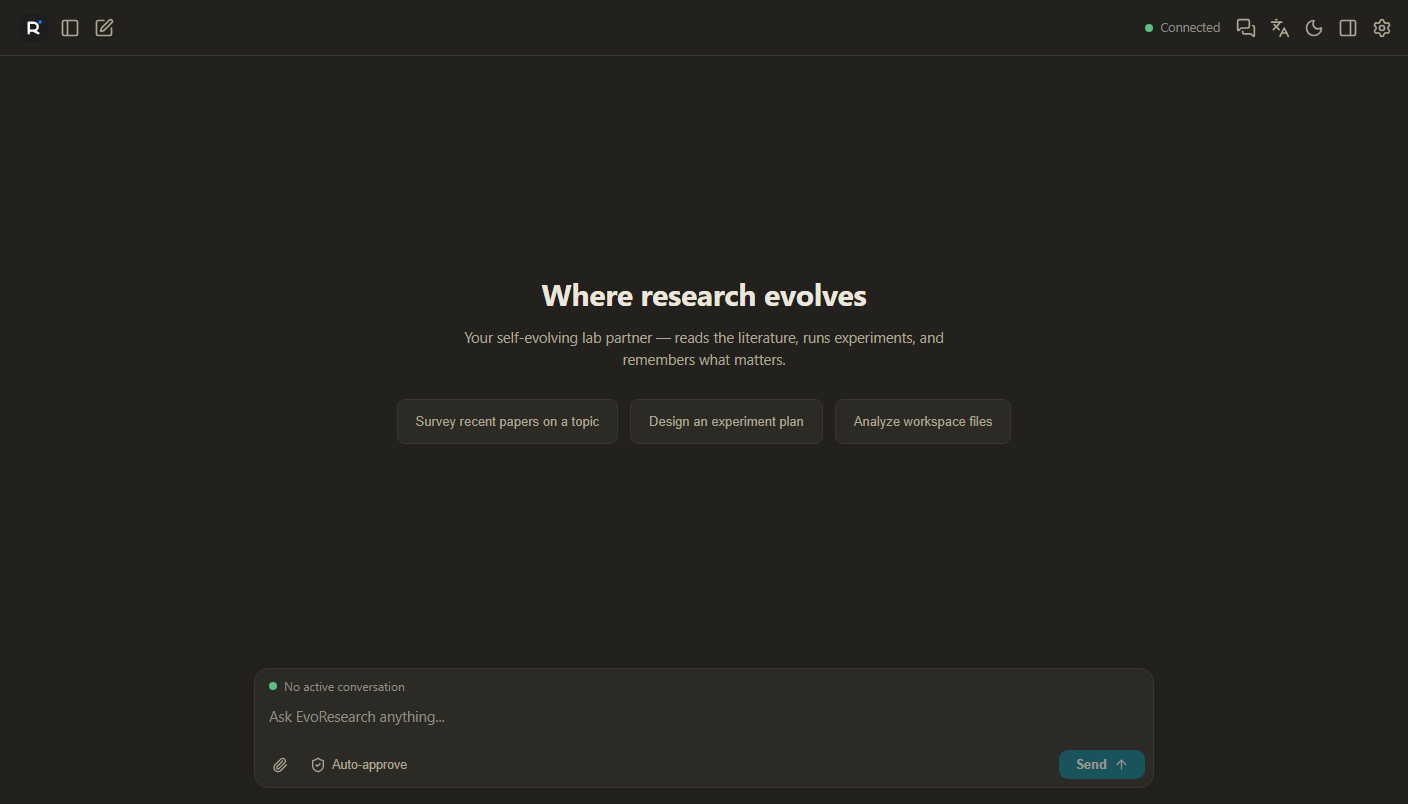
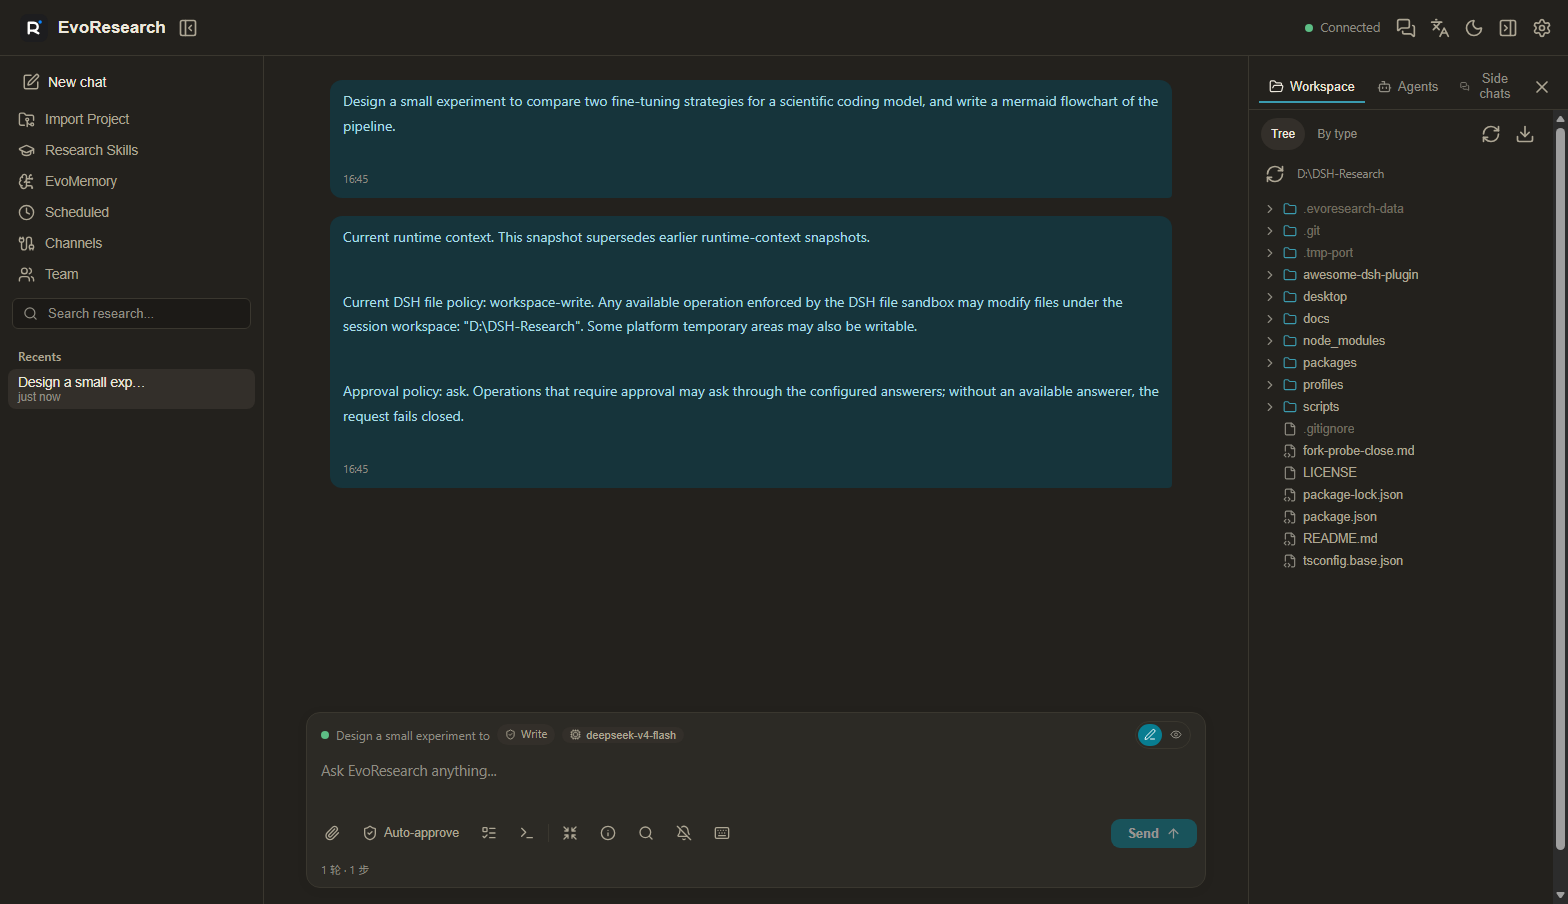
docs: 重写 README（热门项目风格）+ 更新产品截图
- hero 主图与 Markdown 能力图重新截取（当前界面）
- README 精简：删除界面介绍与实现细节（§ 引用/官方 API 说明/内部架构图），
  聚焦产品能力与快速开始
- 清理不再引用的旧截图（仅保留 hero-dark.png / markdown-cap.png）

diff --git a/README.md b/README.md
@@ -2,284 +2,102 @@
 
 # 🔬 EvoResearch
 
-**面向科研的自主智能体 —— 基于 deepseek-harness（DSH）0.1.0-rc.6 构建**
+**面向科研的自主智能体工作台**
 
-用 TypeScript / Node.js 实现的科研智能体能力套件：**自进化科研记忆、项目工作区、
-多智能体团队、定时任务、多通道接入、自定义工作台界面与 Windows 桌面版**。
+一个开箱即用的本地 AI 科研助手：长期记忆、项目工作区、多智能体团队、技能蒸馏与定时任务，
+Windows 桌面版一键安装，网页版即启即用。
 
 [![Release](https://img.shields.io/github/v/release/Karbo123/DSH-EvoResearch?color=2f6bff&label=Release)](https://github.com/Karbo123/DSH-EvoResearch/releases)
 [![Awesome DSH Plugin](https://awesome-dsh-plugin.com/badge.svg)](https://awesome-dsh-plugin.com)
 [![TypeScript](https://img.shields.io/badge/TypeScript-5.8-blue)](https://www.typescriptlang.org/)
 [![Node.js](https://img.shields.io/badge/Node.js-24%2B-green)](https://nodejs.org/)
-[![DSH](https://img.shields.io/badge/deepseek--harness-0.1.0--rc.6-1f3a93)](https://github.com/deepseek-ai/deepseek-harness)
-[![Tauri](https://img.shields.io/badge/Desktop-Tauri%202-6a5acd)](https://tauri.app/)
 [![Windows](https://img.shields.io/badge/Platform-Windows-0078d6)]()
 [![License](https://img.shields.io/badge/License-MIT-yellow)](LICENSE)
 
-**安装包仅 ~45 MB**（WebView2 复用系统组件）· 零 Python · 不依赖 deepagents
+**安装包仅 ~45 MB** · 零 Python · 数据完全本地
 
-![EvoResearch 聊天界面](docs/screenshots/chat-dark.png)
+![EvoResearch 工作台](docs/screenshots/hero-dark.png)
 
 </div>
 
----
+## ✨ 特性
 
-## 🖼 界面一览
-
-EvoResearch 自带**完全自有的工作台界面**（自建浏览器表面，不加载官方 DSH 外壳）：
-暖色"纸面"设计、青色品牌色，浅/深双主题，三栏可拖拽布局 —— 对话、会话历史、右侧
-工作区检查器一屏尽览。
-
-| 深色主题 · 三栏工作台 | 浅色主题 · 欢迎页 | 深色主题 · Markdown 渲染 | 深色主题 · Mermaid 流程图 |
-|---|---|---|---|
-| ![三栏工作台](docs/screenshots/workspace-dark.png) | ![浅色欢迎页](docs/screenshots/hero-light.png) | ![消息 Markdown 渲染](docs/screenshots/markdown-chat-dark.png) | ![Mermaid 流程图](docs/screenshots/mermaid-dark.png) |
-
-> 输入面板的状态条与底部统计条（轮·步 / LLM 耗时 / tok/s / 上下文用量 / 权限模式）已在截图中体现。
-
-## ✨ 特性一览
-
-| | 特性 | 说明 |
-|---|---|---|
-| 🧠 | **科研记忆** | 每轮对话自动进入 Turn Catalog，七类多标签分类（idea/method/experiment/related_work/reproduction/project/general），FTS5 + RRF 混合检索，每轮注入 ≤6000 token 记忆包 |
-| 🎯 | **Goal Contract 长程目标控制** | 长期任务自动生成目标合同，四轴保守判定（目标/范围/证据/完成），证据链可审计推进 |
-| 📂 | **科研项目工作区** | `projects/<name>/.evoresearch-data/` 数据随项目目录隔离，项目即 git 仓库，支持导入与 AI 自动命名创建 |
-| 🤖 | **多智能体团队** | 6 个科研角色预设（规划/调研/编码/调试/数据分析/写作），`/expert invite` 一键邀请 |
-| 🛠 | **AutoSkills 技能蒸馏** | 从记忆观测自动聚类生成可复用技能提案，审核通过后写入技能目录 |
-| ⏰ | **定时任务** | 自研 cron 解析（Vixie 语义），结果直达结果线程，支持「Report to main chat」 |
-| 🌐 | **多通道接入** | Telegram 可用；Slack / QQ / 微信 / 飞书 / Signal 适配器框架就绪 |
-| 👁 | **视觉检查工具** | `vision_check` 工具 + 截图脚本，让模型能"看见"界面并自检（OpenAI 兼容视觉模型） |
-| 💬 | **斜杠命令** | `/project` `/memory` `/schedule` `/channel` `/expert` `/autoskills` |
-| 🖥 | **自定义工作台界面** | 自建浏览器表面（不加载官方 ui-\* 外壳）：顶栏 + 会话历史 + 真实多轮对话 + 输入面板 + 右侧检查器，浅/深双主题，中英双语 |
-| ✍ | **Markdown 渲染** | 消息与输入框 Write/Preview 双模式：GFM 表格、任务列表、KaTeX 数学公式（字体内联）、highlight.js 科研语言子集高亮、**Mermaid 流程图**（回答结束后惰性加载绘制，独立 chunk 不拖慢首屏）、DOMPurify 白名单净化 |
-| 💭 | **Thinking 折叠** | 助手消息的推理内容默认折叠为小号 Thinking 行（§31.6），点击展开（左侧 2px 边线 + 次级文字），正文与推理分离展示 |
-| 📜 | **历史分页与滚动** | 默认只渲染最近 100 条，Load earlier 向前翻页且滚动锚定不跳动；仅在位于底部时自动跟随新消息，上滚时右下角出现「回到最新」并释放旧页；忙时消息进入队列 |
-| ⌨ | **输入辅助** | 斜杠命令候选框（目录动态读取 dsh-commands 注册表 + 平台命令镜像，Tab/方向键/Esc 导航）；**命令直接执行**：单行 `/命令` 回车即执行（新端点 commands-execute，host 命令处理器直跑不经过模型），结果以等宽文本条显示在输入框上方（错误红框、可关闭），未知命令自动降级为普通聊天；`@文件` 补全（workspace 递归树、基名优先排序、发送时小型文本自动注入内容）、每 workspace 输入历史（最近 200 条，空输入上下键浏览、前缀建议） |
-| 🎛 | **会话动作** | 输入面板动作条：Compact（二次确认 → `/compact` 摘要投影）、Current 弹窗（Thread/workspace/模型/权限/token·context/专家/事件数/会话文件路径与大小 + Clear view 仅清展示不删数据）、Search（先搜当前视图、Full history 走全历史搜索、点击跳转高亮）、Notify（浏览器通知开关）、Shortcuts（键盘规则表） |
-| 🧵 | **会话管理与 Side Chat** | Recents 行悬停操作：重命名（官方 session.rename）、导出 JSON/Markdown（§41.8 格式）、从该会话派生 Side Chat（官方 session.fork，需已完成轮次，失败透出原因）；侧聊不混入普通 Recents；Inspector Side chats 页：Blank 空白侧聊（仅继承 workspace）/Inherit 继承侧聊 + tab 列表 + 打开；忙时队列弹层：编辑/删除/清空（官方 session.updateQueue） |
-| 🤖 | **模型选择器** | 状态条模型名本身是按钮（§25.2）：点击弹出 provider 分组目录（llm 注册表动态读取 + 各 adapter listModels），选择即保存默认模型并即时生效 |
-| 🛡 | **HITL 工具审批** | 待审批工具调用显示为卡片（工具名/调用 ID/审批理由），Approve 放行（实测沙箱升级并写入文件）/ Reject 拒绝（实测不执行）；审批期间发送按钮禁用（§21.2） |
-| 🧰 | **工具卡片** | 同一步骤的工具调用分组展示（默认折叠已完成的组，运行中自动展开 + spinner）；每张卡片：名称、状态（running/success/error 三色）、参数（点击展开）、结果（真实工具输出，截断可展开，§21.1） |
-| ⚙ | **Dynamic Workflow** | 输入区上方阶段条：工作流名称 + 子任务标签（running/done/failed 状态色）+ 完成数（n/m）+ 实时耗时 + 结束原因；右侧 X 二次确认清除（仅移除浏览器记录，§24） |
-| ⏳ | **后台任务** | 输入面板后台任务按钮（运行中计数徽标）→ 弹层列出会话后台作业：类型/名称/详情/状态（running·stopping·completed·killed·failed 状态点）/实时耗时（官方 jobsBySession 快照，§21.6） |
-| 📊 | **会话状态条与统计** | 输入面板实时徽章（排队消息 / 进行中目标 / 权限模式 Read-only·Write·Full effect / 当前模型 / 上下文用量%）+ 底部统计条（轮·步 \| LLM 耗时 · 工具耗时 \| 首 token 平均 · tok/s \| 缓存命中 \| 输入·输出 tokens） |
-| 🧩 | **业务面板** | EvoMemory（项目/七类统计/目标）、Scheduled（任务列表/添加/删除）、Research Skills（AutoSkills 提案审核：Approve/Reject/Run）、Channels（消息通道启停）与 Team（科研角色邀请/清空）、Workspace（项目导入）面板，经工作台侧栏菜单直达 |
-| 🗂 | **工作区文件浏览器** | Inspector 内目录树（懒加载）+ 文本编辑（Ctrl+S 原子保存）+ 图片/PDF/HTML 内联预览 |
-| 🤖 | **Agent 检查器** | Inspector 的 Agents 页实时列出当前会话的子代理树（深度缩进 / 运行态 / one-shot·continuable 模式徽标），消息气泡支持一键复制 |
-| 🪟 | **Windows 桌面版** | Tauri 2 + Node sidecar，无边框自绘标题栏（原生拖拽 + 窗口控制），NSIS 安装包 **~45 MB**（实测），含全部后端 |
+- 🧠 **科研记忆** —— 每轮对话自动沉淀为结构化记忆，七类分类 + 混合检索，模型调用前自动注入相关记忆包
+- 🎯 **长程目标** —— 复杂任务自动拆解为目标合同，按证据推进、可审计、可恢复
+- 📂 **项目工作区** —— 每个项目独立目录、独立 git 仓库，数据随项目迁移；一键导入既有目录
+- 🤖 **多智能体团队** —— 规划 / 调研 / 编码 / 调试 / 数据分析 / 写作 六位科研角色，可邀请进对话协作
+- 🛠 **技能蒸馏** —— 从对话与记忆中自动提炼可复用技能，审核通过后即成为团队能力
+- ⏰ **定时任务** —— 类 cron 调度，结果自动回报到对话
+- 🌐 **多通道接入** —— Telegram 开箱即用，Slack / QQ / 微信 / 飞书 / Signal 适配器框架就绪
+- ✍ **富文本对话** —— GFM 表格、任务列表、KaTeX 数学公式、代码高亮、Mermaid 流程图，输入框支持实时预览
+- 💬 **斜杠命令** —— `/project` `/memory` `/schedule` `/channel` `/expert` `/autoskills` …，回车即执行
+- 🔍 **会话工具** —— 全文搜索、JSON / Markdown 导出、重命名、侧边对话、忙时队列编辑
+- 🛡 **安全审批** —— 工具调用需人工批准时逐项展示（工具名 / 理由），Approve 或 Reject 一键决定
+- 🪟 **Windows 桌面版** —— 无边框原生窗口，后端随开随关，无需手动配置
 
 ## 🚀 快速开始
 
-### 环境要求
-
-- **Windows 10/11**（当前仅支持 Windows）
-- **Node.js ≥ 24**（需要内置 `node:sqlite` 与 zstd；推荐 24 LTS 或 26）
-- **npm ≥ 10**
-
-### 方式一：Windows 桌面版（开箱即用）
+### Windows 桌面版（推荐）
 
 从 [GitHub Releases](https://github.com/Karbo123/DSH-EvoResearch/releases) 下载
-`EvoResearch_0.1.0_x64-setup.exe`（**~45 MB**），双击安装：
-窗口内是完整工作台界面，后端（Node sidecar）自动启动、随窗口退出自动清理，无需手动配置。
+`EvoResearch_0.1.0_x64-setup.exe`，双击安装即可使用。
 
-### 方式二：网页版（构建后运行）
+### 网页版
 
 ```bash
-# 1. 克隆仓库
 git clone https://github.com/Karbo123/DSH-EvoResearch.git
 cd DSH-EvoResearch
-
-# 2. 构建（插件 + 自定义表面）
 npm install
 npm run build
-npm run verify        # 可选：70 个单元测试 + bundle/docs 校验
-
-# 3. 用示例 profile 启动（独立端口，避免与现有 DSH 冲突）
 npx @deepseek-ai/dsh --profile profiles/evoresearch --port 3081
-# 浏览器打开 http://127.0.0.1:3081
+# 打开 http://127.0.0.1:3081
 ```
 
-### 方式三：作为 DSH profile bundle 挂载
+### 作为 DSH profile 挂载
 
-在任意 DSH 部署中把本仓库 `profiles/evoresearch/` 作为 profile：
-
-```jsonc
-// <你的 DSH profile 目录>/package.json
-{
-  "name": "dsh-profile-evoresearch",
-  "private": true,
-  "dependencies": {
-    "@deepseek-ai/dsh-base": "^0.1.0-rc.6",
-    "@evoresearch/dsh-app": "file:path/to/DSH-EvoResearch/packages/evoresearch-app",
-    "@evoresearch/dsh-plugin": "file:path/to/DSH-EvoResearch/packages/evoresearch-plugin"
-  },
-  "dsh": {
-    "profile": {
-      "bundles": [
-        "@deepseek-ai/dsh-base",
-        "@evoresearch/dsh-app",
-        "@evoresearch/dsh-plugin"
-      ]
-    }
-  }
-}
-```
-
-> `@evoresearch/dsh-app` 是自定义浏览器表面 bundle：复用 DSH host 引擎与官方传输/运行时，
-> 但**不加载**官方 `ui-*` 外壳 —— 打开即是 EvoResearch 自己的工作台界面。
-
-```bash
-npm install            # 在 profile 目录安装依赖
-npx @deepseek-ai/dsh --profile <profile名>
-```
-
-启动后打印：
-
-```
-[evoresearch] host 插件激活（dataRoot: ...）
-evoresearch: http://127.0.0.1:3080
-```
-
-## 🧪 建议：使用独立 DSH 环境测试（避免与现有环境冲突）
-
-如果你目前通过 `npx @deepseek-ai/dsh web` 使用 DSH，**强烈建议为 EvoResearch 建一个独立 profile**：
-它与你正在用的环境完全隔离（独立端口、独立会话、独立数据目录），互不干扰。
-
-```bash
-# 1. 创建独立 profile 目录（DSH_HOME 默认为 ~/.dsh）
-mkdir -p ~/.dsh/profiles/evoresearch
-cd ~/.dsh/profiles/evoresearch
-
-# 2. 写入 profile 声明（内容见上方「方式三」），然后
-npm install
-
-# 3. 用独立端口启动（默认 3080，用 --port 指定其他端口）
-npx @deepseek-ai/dsh --profile evoresearch --port 3081
-# 浏览器打开 http://127.0.0.1:3081
-```
-
-> 仓库内置了可直接使用的示例 profile：`profiles/evoresearch/`（已声明三个 bundle）。
+在任意 deepseek-harness 部署中，将本仓库的 `@evoresearch/dsh-app` 与
+`@evoresearch/dsh-plugin` 加入 profile bundles 即可获得完整科研能力与工作台界面。
 
 ## ⚙ 配置
 
-在 DSH 的 `settings.yaml` 中加入 `evoresearch` 段（或设置环境变量）：
+在 DSH `settings.yaml` 中加入：
 
 ```yaml
 evoresearch:
-  dataRoot: D:\evoresearch        # 部署根目录（projects/ 所在），默认 $EVORESEARCH_DATA_ROOT 或 cwd
-  memoryTokenBudget: 6000         # 每轮科研记忆包 token 预算
-  auxiliaryModel:                 # 分类/Goal 提取用辅助模型（缺省取当前默认模型）
-    provider: deepseek-official
-    model: deepseek-v4-flash
-  autoStartChannels: false        # 启动时自动启动已配置通道（如 Telegram）
-  memoryEnabled: true
-  visionEnabled: true             # 是否注册 vision_check 视觉检查工具（模型未配置时自动跳过）
-```
-
-## 🧠 科研记忆怎么工作
-
-```
-用户消息 ──▶ session/event
-              │
-              ▼
-  1. Turn Catalog 立即落库（pending）
-  2. 后台：LLM 七类分类（失败自动确定性回退）
-           → topic 归一化（复用已有主题）
-           → topic state 更新
-           → 长程检测 → Goal Contract（v3）
-           → 记忆包构建（≤6000 token，RRF 混合召回）
-              │
-              ▼
-  3. 每步模型调用前注入 <research_memory_packet>
-  4. turn/end：completed/interrupted + Raw Turn Archive 归档
-```
-
-- 记忆数据存放在每个项目的 `.evoresearch-data/memories/`：
-  `research_memory.db`（SQLite + FTS5）+ `observations/*.md`（人类可读、git 可管理）；
-- 模型可通过 `search_research_history`、`read_research_turn`、`create_observation` 等工具按需读写；
-- 既有会话历史会在首次使用时**后台自动回填**索引（断点续做，可重建）。
-
-## 🖥 桌面版（Tauri 2 + Node sidecar）
-
-| 项 | 值 |
-|---|---|
-| 安装包 | `EvoResearch_0.1.0_x64-setup.exe`，**~45 MB**（NSIS/LZMA） |
-| 运行时 | 复用系统 WebView2（Win10/11 内置） |
-| 后端 | Node 24 LTS sidecar（独立 DSH_HOME，不污染用户环境） |
-| 体积优化 | provider SDK 裁剪（deepseek profile 思路）、node-pty/sharp 仅 win32-x64 |
-
-构建：
-
-```bash
-node desktop/scripts/build.mjs
-# 产物：desktop/src-tauri/target/release/bundle/nsis/EvoResearch_0.1.0_x64-setup.exe
+  dataRoot: D:\evoresearch        # 部署根目录（projects/ 所在）
+  memoryTokenBudget: 6000         # 每轮记忆包 token 预算
+  autoStartChannels: false        # 启动时自动启动已配置通道
+  visionEnabled: true             # 视觉检查工具（需配置视觉模型）
 ```
 
 ## 🛠 开发
 
 ```bash
-npm install          # 安装 workspace 依赖
-npm run build        # 插件（tsc + client bundle）+ 自定义表面（node half + client + frontend dist）
-npm run typecheck    # 严格类型检查
-npm test             # 70 个单元测试（node:test）
-npm run verify       # build + test + bundle 校验 + docs 校验
+npm install
+npm run build        # 插件 + 自定义表面
+npm test             # 单元测试
+npm run verify       # 构建 + 测试 + bundle / 文档校验
+node desktop/scripts/build.mjs   # 桌面安装包
 ```
-
-```
-packages/evoresearch-plugin/   # @evoresearch/dsh-plugin —— 科研能力插件（host 服务）
-  ├── src/host/                # Host 插件（workspace/memory/scheduler/channels/...）
-  └── cordis.patch.yml         # bundle patch（evoresearch-host 服务行）
-packages/evoresearch-app/      # @evoresearch/dsh-app —— 自定义浏览器表面 bundle
-  ├── src/runtime.ts           # app-runtime（serve 前端 dist / 表面提示 / URL 打印）
-  ├── src/client/              # 工作台 UI 插件（root slot + layout + 会话消息管线）
-  │   ├── index.ts             #   顶栏 + 三栏布局 + 会话订阅/发送
-  │   ├── conversation.ts      #   消息 Definition（官方语义裁剪）+ chat view
-  │   ├── chat.ts              #   消息气泡渲染 + 输入面板
-  │   ├── threadlist.ts        #   会话历史侧栏
-  │   ├── inspector.ts         #   右侧工作区检查器
-  │   └── styles.ts            #   设计系统（暖色纸面 + 青色品牌，浅/深主题）
-  ├── frontend/                # 前端外壳入口（AppWebEntry 内核）
-  └── vendor/                  # vendored 官方 client-modules 源码（构建时 alias）
-profiles/evoresearch/          # 示例 DSH profile（三个 bundle）
-desktop/                       # Tauri 2 桌面壳 + Node sidecar 打包脚本
-docs/                          # 中文文档（架构/功能映射/开发/桌面）
-```
-
-## 📚 文档
 
 | 文档 | 内容 |
 |---|---|
-| [docs/00-decisions.md](docs/00-decisions.md) | 技术选型决策（存储、嵌入模型、桌面方案等） |
 | [docs/01-architecture.md](docs/01-architecture.md) | 架构设计与数据流 |
-| [docs/02-feature-map.md](docs/02-feature-map.md) | 功能地图（能力清单、设计与状态） |
-| [docs/03-development.md](docs/03-development.md) | 开发指南（挂载、配置、扩展点） |
-| [docs/04-desktop.md](docs/04-desktop.md) | Windows 桌面版构建与体积优化 |
+| [docs/02-feature-map.md](docs/02-feature-map.md) | 能力清单 |
+| [docs/03-development.md](docs/03-development.md) | 开发指南 |
+| [docs/04-desktop.md](docs/04-desktop.md) | 桌面版构建 |
 
 ## ❓ FAQ
 
-**Q：为什么基于 deepseek-harness 而不是自己写框架？**
-DSH（0.1.0-rc.6）提供会话、模型路由、子代理、审批、技能、MCP 等完整平台能力，
-EvoResearch 只做「科研化」扩展（记忆、项目、团队、调度、通道、界面），避免重复造轮子。
+**数据存在哪里？**
+每个项目独立目录 `projects/<name>/`，记忆库、观测文件与调度任务都在
+`.evoresearch-data/` 内，项目本身是 git 仓库，可整体迁移与备份。
 
-**Q：界面是 DSH 自带的吗？**
-不是。`@evoresearch/dsh-app` 是**自定义浏览器表面**：host 引擎与传输完全复用官方
-（会话、模型、工具、审批……），但浏览器端不加载官方 `ui-*` 外壳，界面是
-EvoResearch 自己的工作台（暖色纸面设计、浅/深双主题，含真实多轮对话与会话历史）。
+**没有网络或 API Key 能用吗？**
+记忆分类与检索在模型不可用时自动退化到确定性算法，不阻塞主对话。
 
-**Q：数据存在哪里？**
-每个科研项目一个独立目录 `projects/<name>/`，内部 `.evoresearch-data/` 存放
-记忆库、观测文件与调度任务；项目本身是 git 仓库，可整体迁移、导入、备份。
-
-**Q：没有网络/API Key 时能用吗？**
-分类与记忆包构建在 LLM 失败时自动退化（确定性分类 + 纯 FTS5 检索），不阻塞主回答。
-
-**Q：如何接入更多消息通道？**
-实现 `ChannelAdapter` 接口（`src/host/channels/base.ts`）并在 `adapters.ts` 注册即可；
-Telegram 已提供完整实现（长轮询，仅需 `EVORESEARCH_TELEGRAM_TOKEN`）。
-
-## 🤝 贡献
-
-欢迎 PR 与 Issue：完善通道适配器、接入本地/远端 Embedding、增强业务面板（记忆/调度/团队）等。
-代码风格：TypeScript 严格模式、中文注释、`node:test` 单测覆盖。
+**如何接入更多消息通道？**
+实现 `ChannelAdapter` 接口并注册即可；Telegram 已内置完整实现。
 
 ## 📄 License
 
